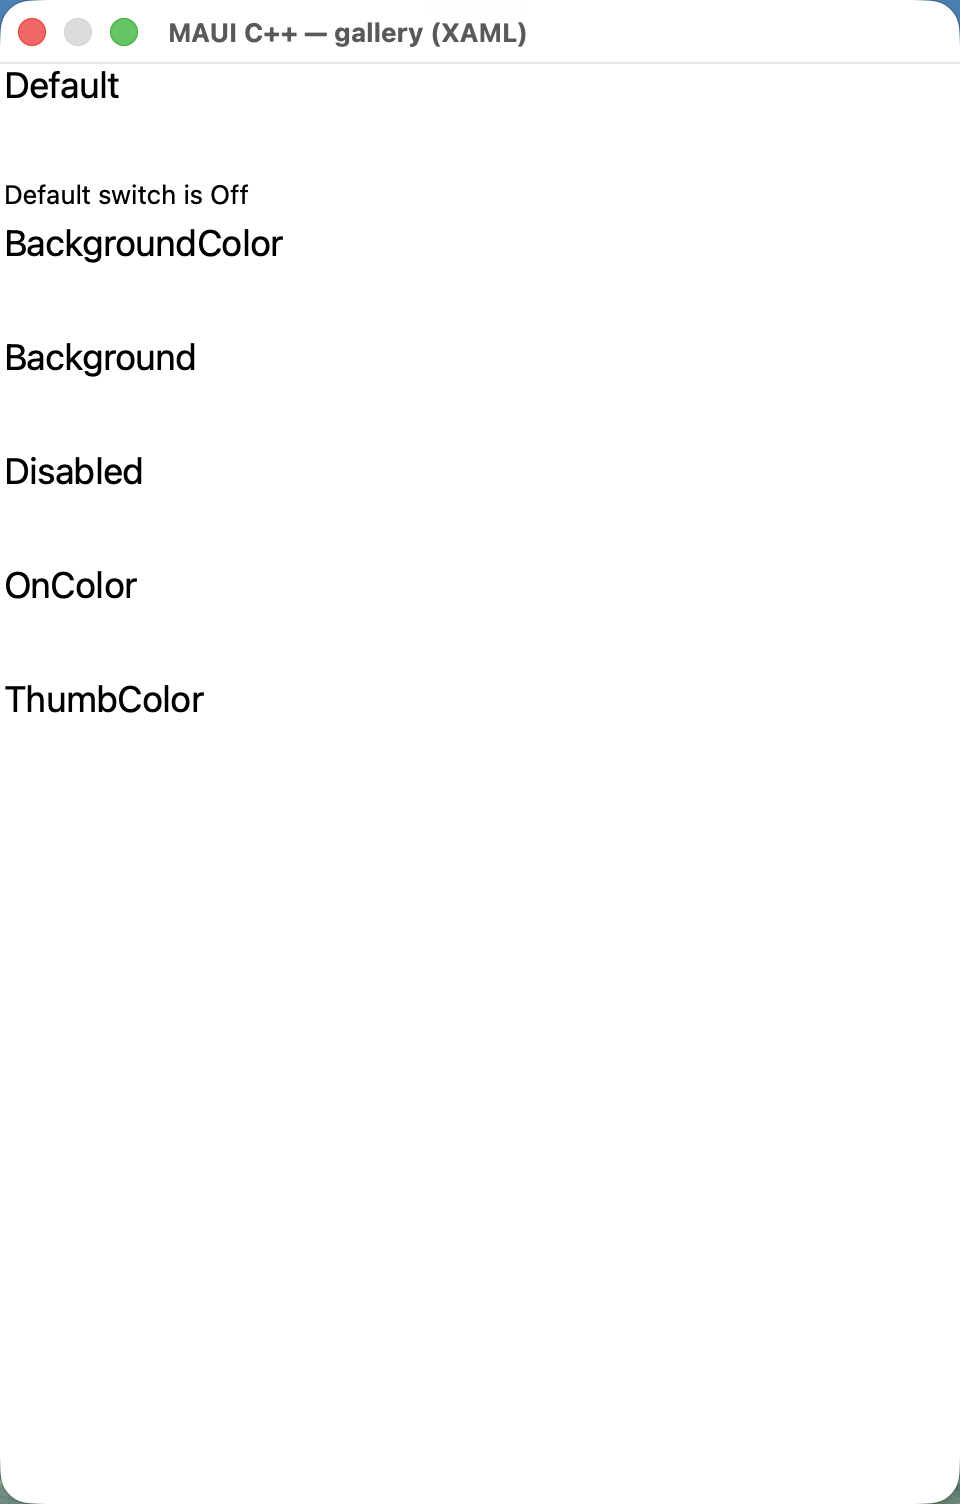
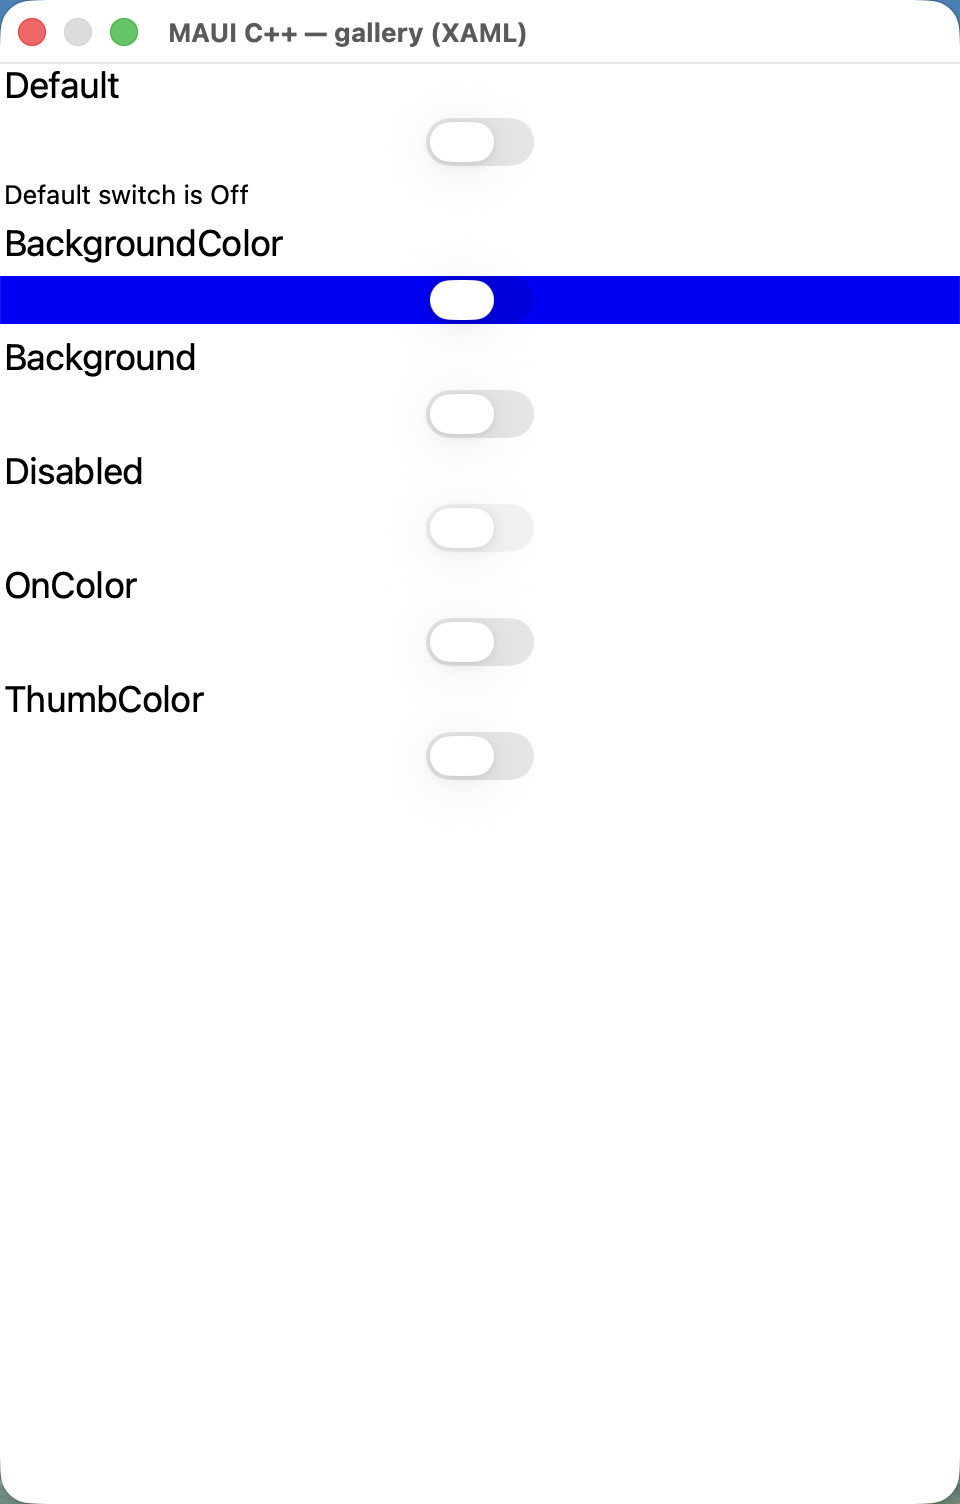
fix(apple): switch toggles invisible — frame the NeedsContainer wrapper, not the inner NSSwitch
The switch uses NeedsContainer (an NSView wrapper around the NSSwitch, so the switch never has to grow —
the >101pt accessibility bug — while chrome like BackgroundColor can size the container). native_child
hands the layout the WRAPPER, but switch_handler::platform_arrange framed the inner NSSwitch — so the
wrapper kept its setup-time frame and every toggle was mispositioned off-screen (the switch page showed only
labels). Fix: when a container exists, frame the wrapper to the arranged rect and fill it with the NSSwitch.

Verified by re-capture: all 6 toggles on the switch page render (incl. the blue BackgroundColor container
bar), and controls_stack/value_controls switches are unchanged — no regression.

diff --git a/port/cpp/src/platform/apple/switch_handler.mm b/port/cpp/src/platform/apple/switch_handler.mm
@@ -259,6 +259,15 @@ namespace maui::core
         {
             return;
         }
+        // NeedsContainer: the layout positions the CONTAINER (the wrapper that native_child handed it), not
+        // the bare NSSwitch — so frame the wrapper to the arranged rect and let the NSSwitch fill it. Without
+        // this the wrapper kept its setup-time frame and the toggle was mispositioned off-screen.
+        if (platform->container != nullptr)
+        {
+            [(__bridge NSView*)platform->container setFrame:NSMakeRect(frame.x, frame.y, frame.width, frame.height)];
+            [as_switch(platform->native) setFrame:NSMakeRect(0, 0, frame.width, frame.height)];
+            return;
+        }
         [as_switch(platform->native) setFrame:NSMakeRect(frame.x, frame.y, frame.width, frame.height)];
     }
 } // namespace maui::core

diff --git a/port/cpp/docs/MACOS_ANDROID_RESUME.md b/port/cpp/docs/MACOS_ANDROID_RESUME.md
@@ -37,10 +37,9 @@ Criterion (per user): every coded/XAML element PRESENT in all renders; `appkit_c
   `drawRect:` drew over the OS `dirtyRect` (the whole window on a flipped/nested NSView) instead of
   `self.bounds`. See `db2433923a` + APPKIT_FINDINGS.md.
 - **Remaining AppKit gaps (deferred, diagnosed):**
-  - **switch** toggles invisible — NeedsContainer arrange gap: apple's generic arrange frames the inner
-    NSSwitch, not the **container** the layout added, so the container keeps its setup-time frame and the
-    switch is mispositioned. Fix in the apple container-arrange path (generic — affects all NeedsContainer
-    controls). `src/platform/apple/switch_handler.mm` on_setup_container + the apple view-arrange/container map.
+  - **switch** — FIXED: `switch_handler::platform_arrange` now frames the CONTAINER (the wrapper the
+    layout positioned via NeedsContainer) and fills it with the NSSwitch, instead of framing the bare inner
+    NSSwitch. All toggles render; no regression on controls_stack/value_controls.
   - **image** — NSImageView shows no image (UriSource/FileSource); investigate the apple image handler.
   - **radio_template_from_style** — builder ControlTemplate renders a solid-blue box (only cpp-vs-xaml diff).
 
@@ -58,7 +57,6 @@ Each backend builds in its own dir via a CMake option/preset (headless/apple/ios
 per the chosen "enabling options, keep separate dirs" approach.
 
 ## Suggested resume order
-1. AppKit `switch` (NeedsContainer container-arrange) — likely fixes other wrapped controls too.
-2. AppKit `image` rendering.
+1. AppKit `image` rendering (NSImageView measures to 0 before the async load).
 3. Catalyst collectionview/items spacing (native get_desired_size).
 4. Android: port more control handlers + stand up an Android app host for visual parity.

diff --git a/port/cpp/docs/comparison/maccatalyst/APPKIT_FINDINGS.md b/port/cpp/docs/comparison/maccatalyst/APPKIT_FINDINGS.md
@@ -84,6 +84,9 @@ stack_layout, grid_definitions, relative_layout, flex_layout, absolute_layout, r
 templated_view all render their children correctly now; border_resize_content (shapes inside Borders, which
 worked before) is unchanged — no regression. appkit_cpp still == appkit_xaml on these.
 
-**Still open (separate, smaller gaps):** `switch` toggles don't render; `image` doesn't show the actual
+**Switch FIXED** (commit follows): the NeedsContainer arrange framed the inner NSSwitch, not the
+wrapper the layout positioned — now `platform_arrange` frames the container + fills it. All toggles render.
+
+**Still open (separate, smaller gaps):** `image` doesn't show the actual
 images; `radio_template_from_style` builder ControlTemplate renders a solid-blue box (cpp-vs-xaml). These
 are NOT the shape-fill bug and are deferred.
